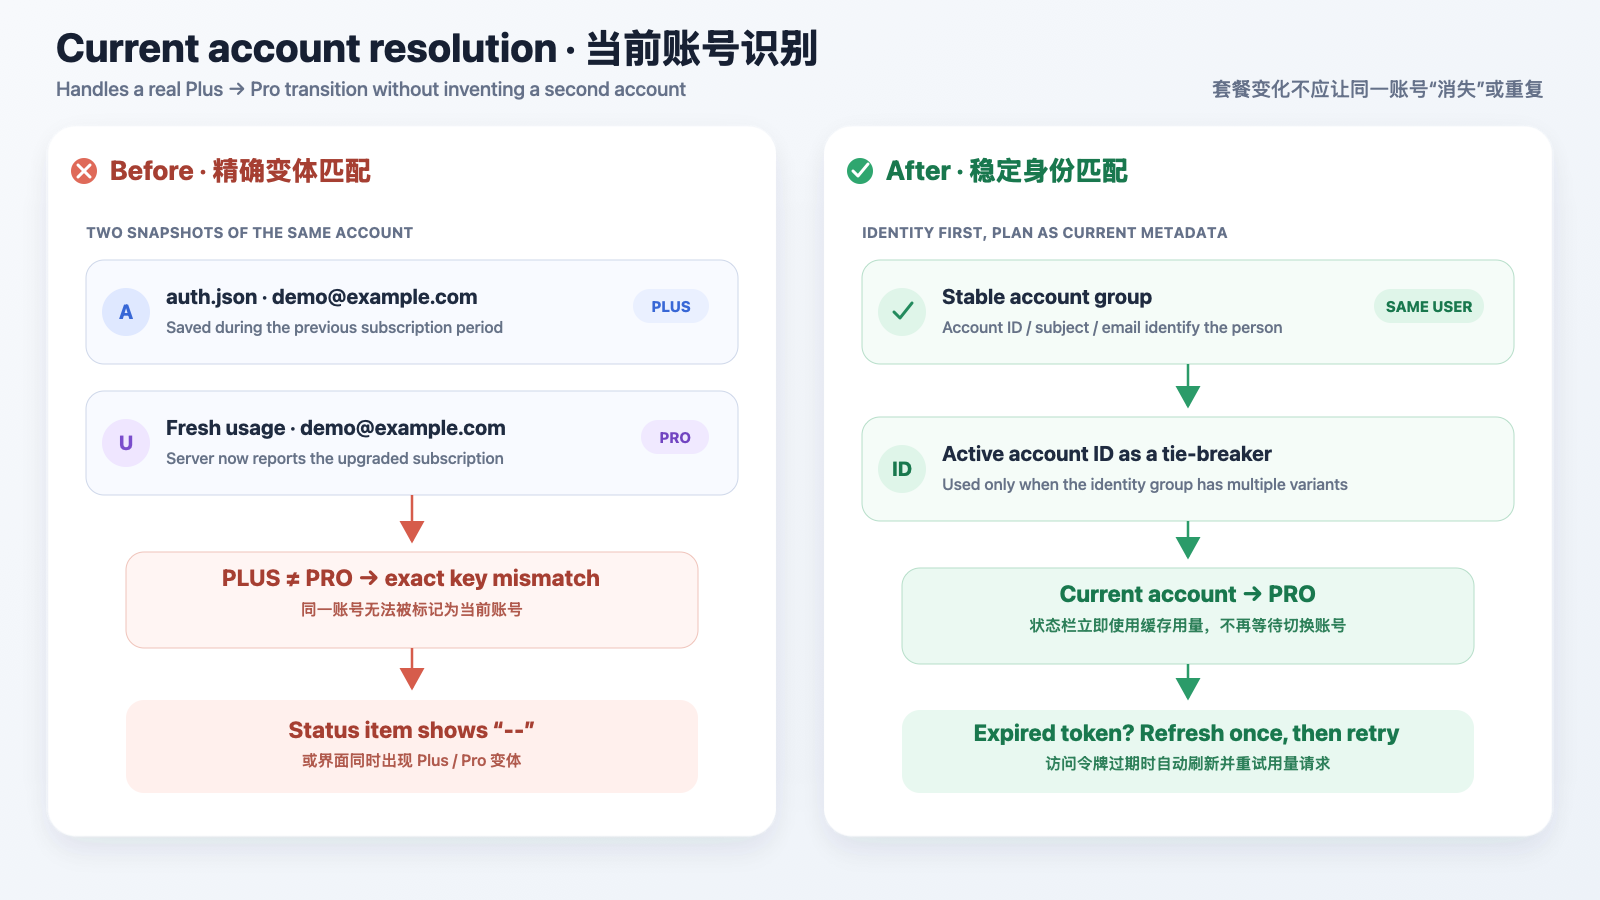
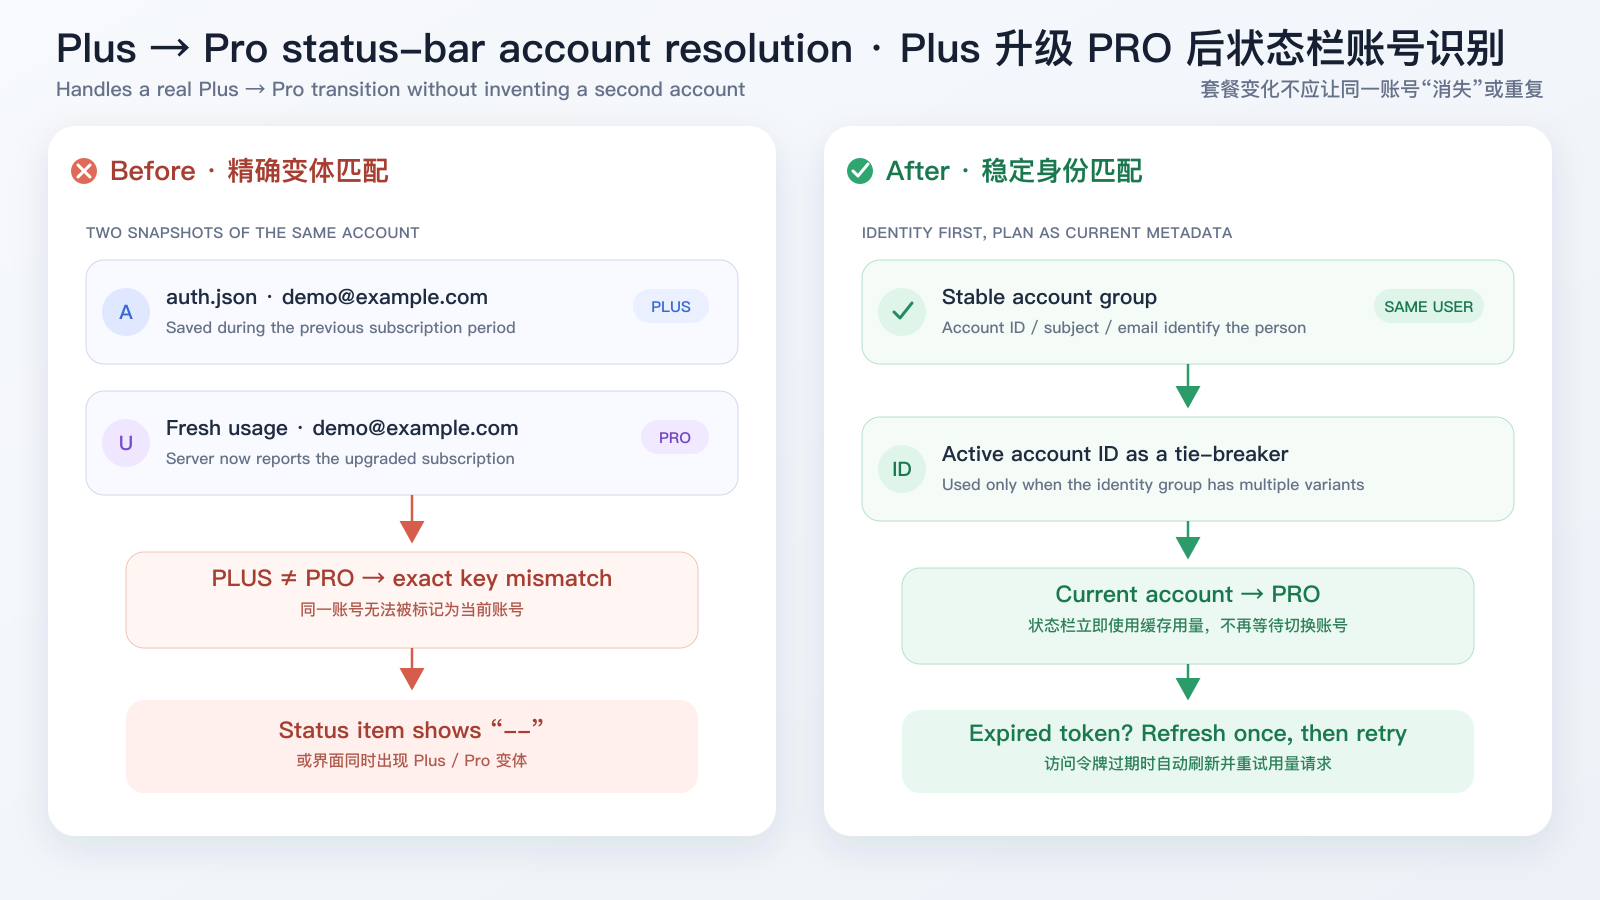
EN: Align PR comparison layout and account heading / ZH: 统一 PR 对比布局与账号标题
EN:
- Present the status settings and usage-window labels in the same bordered two-column layout as the status-item comparison.
- Rename the account-resolution section and diagram to describe the Plus-to-Pro status-bar case explicitly.

ZH:
- 将状态栏设置和用量周期标签改为与状态项外观一致的带边框双栏布局。
- 将账号识别章节与示意图明确改名为 Plus 升级 PRO 后状态栏账号识别。

diff --git a/docs/pr-assets/energy-optimization/PR_BODY.md b/docs/pr-assets/energy-optimization/PR_BODY.md
@@ -48,23 +48,15 @@ Runtime quota percentages are still taken from the usage response. This change d
 
 ### 2. macOS status-item settings · macOS 状态项设置
 
-**Before / 修改前**
-
-![Status settings before](https://raw.githubusercontent.com/Nonex111/codex-tools/refs/heads/codex/energy-optimization/docs/pr-assets/energy-optimization/status-settings-before.png)
-
-**After / 修改后**
-
-![Status settings after](https://raw.githubusercontent.com/Nonex111/codex-tools/refs/heads/codex/energy-optimization/docs/pr-assets/energy-optimization/status-settings-after.png)
+| Before / 修改前 | After / 修改后 |
+| --- | --- |
+| ![Status settings before](https://raw.githubusercontent.com/Nonex111/codex-tools/refs/heads/codex/energy-optimization/docs/pr-assets/energy-optimization/status-settings-before.png) | ![Status settings after](https://raw.githubusercontent.com/Nonex111/codex-tools/refs/heads/codex/energy-optimization/docs/pr-assets/energy-optimization/status-settings-after.png) |
 
 ### 3. Usage-window labels · 用量周期标签
 
-**Before / 修改前**
-
-![The five-hour meter was mislabeled as 1w](https://raw.githubusercontent.com/Nonex111/codex-tools/refs/heads/codex/energy-optimization/docs/pr-assets/energy-optimization/usage-labels-before.png)
-
-**After / 修改后**
-
-![The semantic slots are labeled 5h and 1w](https://raw.githubusercontent.com/Nonex111/codex-tools/refs/heads/codex/energy-optimization/docs/pr-assets/energy-optimization/usage-labels-after.png)
+| Before / 修改前 | After / 修改后 |
+| --- | --- |
+| ![The five-hour meter was mislabeled as 1w](https://raw.githubusercontent.com/Nonex111/codex-tools/refs/heads/codex/energy-optimization/docs/pr-assets/energy-optimization/usage-labels-before.png) | ![The semantic slots are labeled 5h and 1w](https://raw.githubusercontent.com/Nonex111/codex-tools/refs/heads/codex/energy-optimization/docs/pr-assets/energy-optimization/usage-labels-after.png) |
 
 ### 4. Background work and startup · 后台任务与启动
 
@@ -74,9 +66,9 @@ _This diagram summarizes code-path changes; it is not a quantitative battery ben
 
 _该图概括代码路径变化，不代表定量耗电基准测试。_
 
-### 5. Current-account resolution · 当前账号识别
+### 5. Plus-to-Pro status-bar account resolution · Plus 升级 PRO 后状态栏账号识别
 
-![Current account resolution before and after](https://raw.githubusercontent.com/Nonex111/codex-tools/refs/heads/codex/energy-optimization/docs/pr-assets/energy-optimization/account-resolution-before-after.png)
+![Plus-to-Pro status-bar account resolution before and after](https://raw.githubusercontent.com/Nonex111/codex-tools/refs/heads/codex/energy-optimization/docs/pr-assets/energy-optimization/account-resolution-before-after.png)
 
 ### 6. In-app release notes · 应用内更新说明
 
